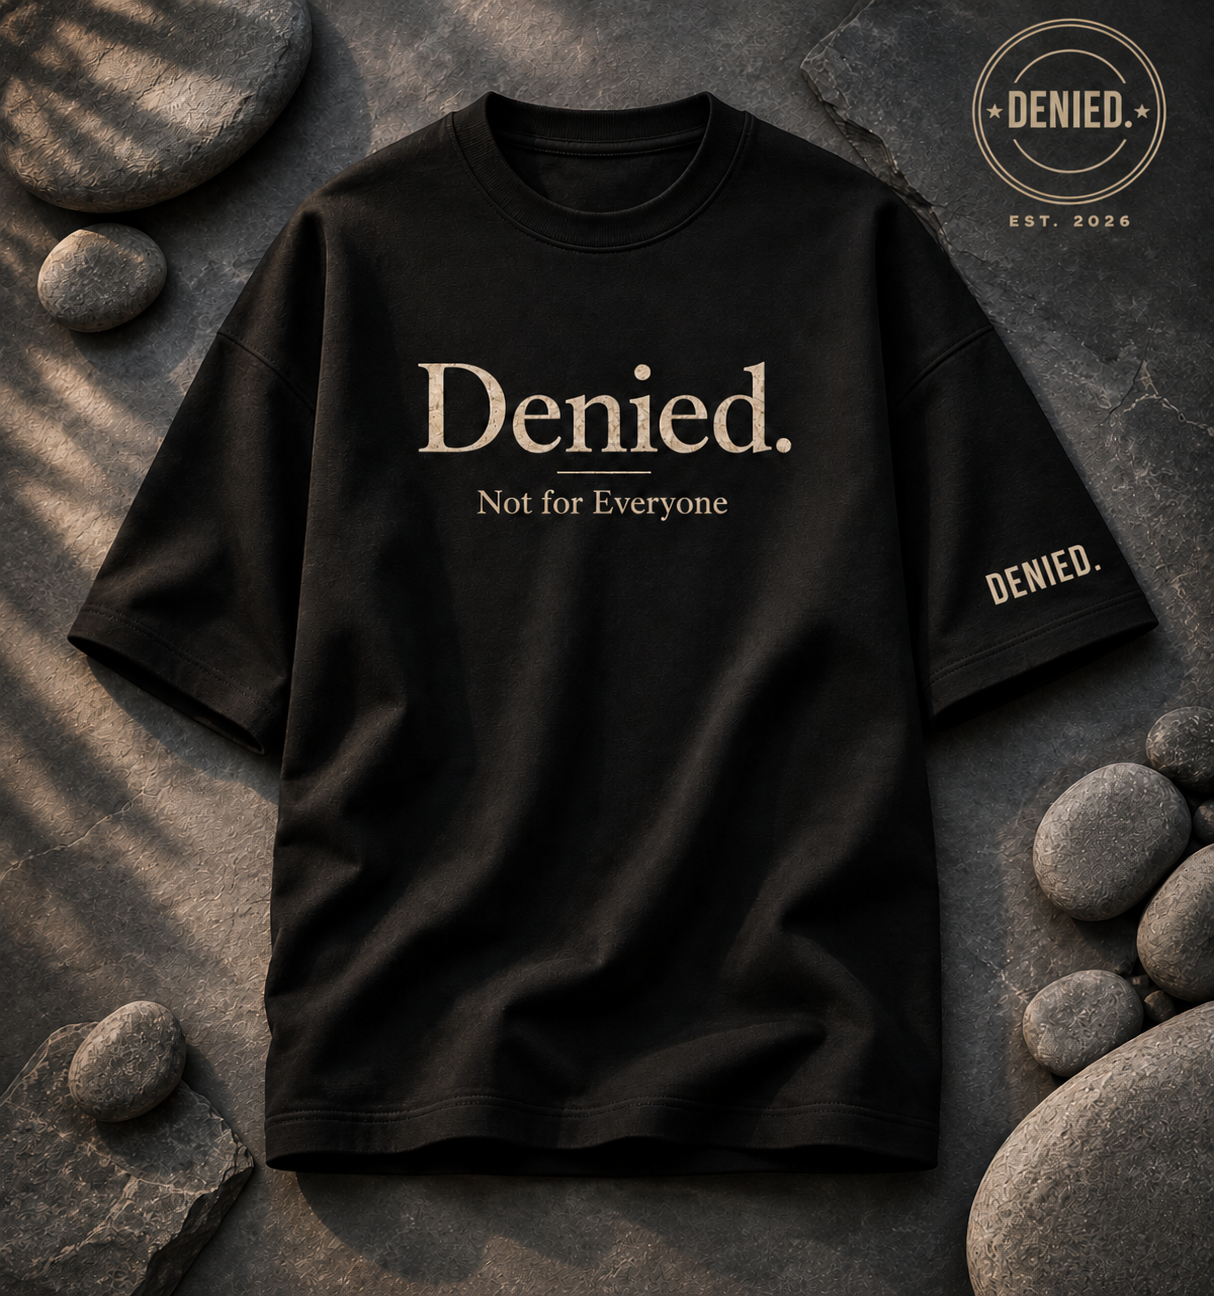
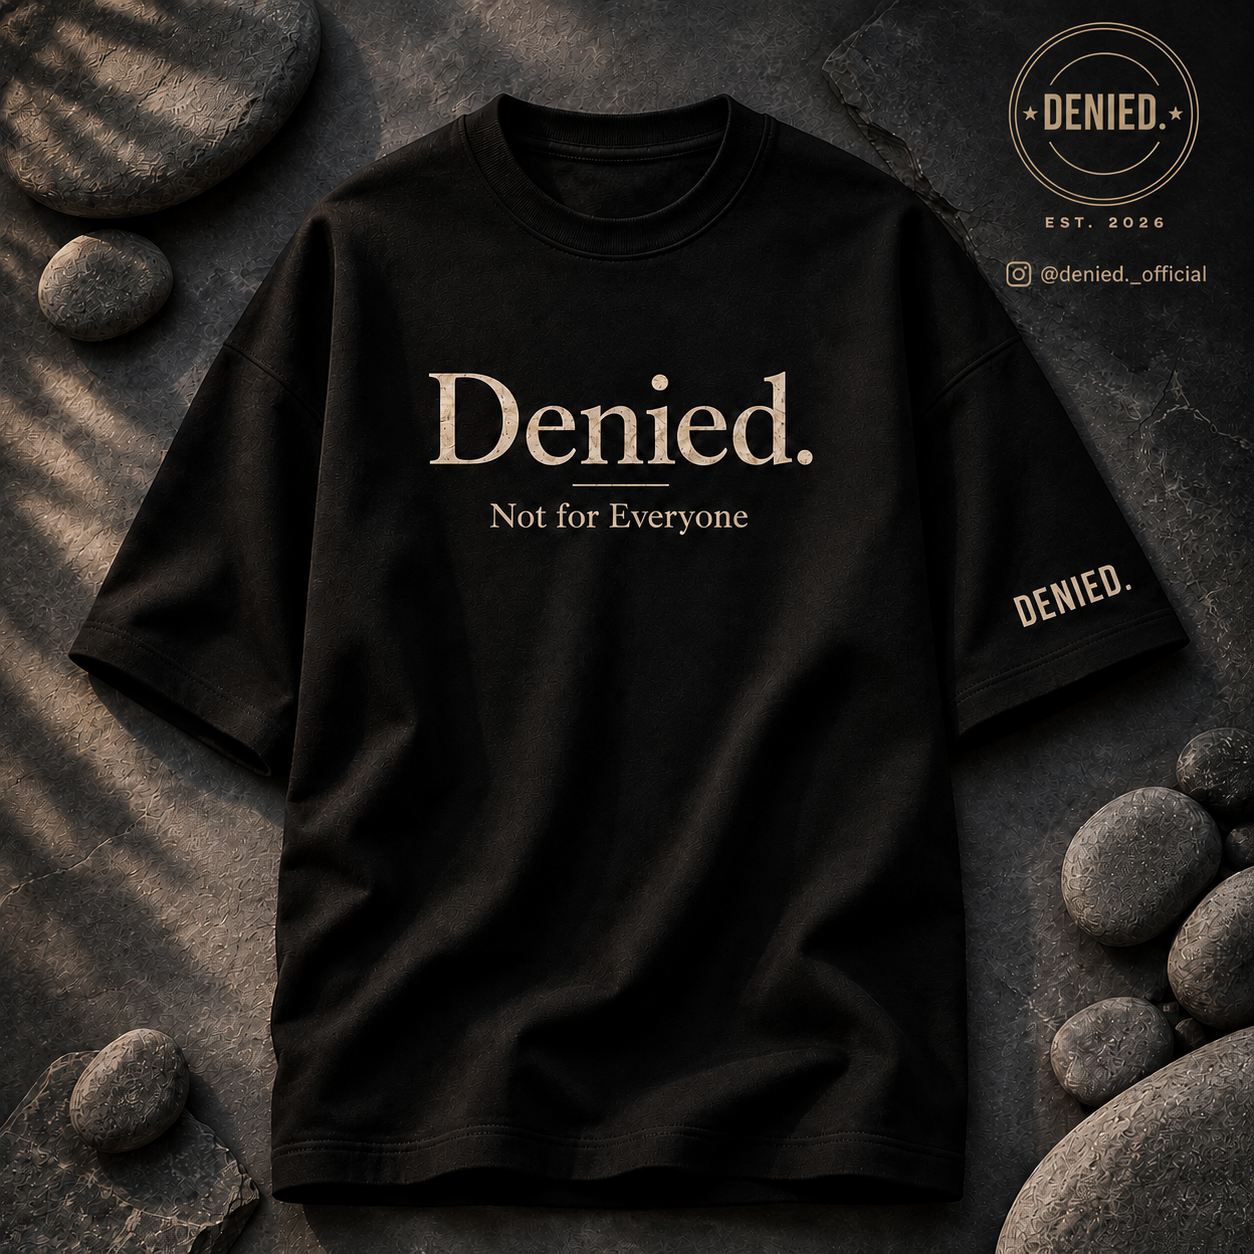
Fix tagline: Luxury for the Selected

diff --git a/src/app/layout.tsx b/src/app/layout.tsx
@@ -25,7 +25,7 @@ const bebas = Bebas_Neue({
 
 export const metadata: Metadata = {
   title: "DENIED. — Not for Everyone",
-  description: "Not for Everyone. Luxury for Selected. Premium apparel and accessories.",
+  description: "Not for Everyone. Luxury for the Selected. Premium apparel and accessories.",
   icons: {
     icon: "/favicon.png",
     apple: "/favicon.png",

diff --git a/src/components/Footer.tsx b/src/components/Footer.tsx
@@ -18,7 +18,7 @@ export default function Footer() {
               className="h-7 w-auto mb-6"
             />
             <p className="text-gray-600 text-sm max-w-xs">
-              Not for Everyone. Luxury for Selected.
+              Not for Everyone. Luxury for the Selected.
             </p>
           </div>
 

diff --git a/src/components/Hero.tsx b/src/components/Hero.tsx
@@ -58,7 +58,7 @@ export default function Hero() {
           transition={{ delay: 1.2, duration: 1 }}
           className="font-serif text-xl md:text-2xl text-gray-300 font-medium mt-6 mb-12"
         >
-          Not for Everyone. Luxury for Selected.
+          Not for Everyone. Luxury for the Selected.
         </motion.p>
 
         {/* CTA */}